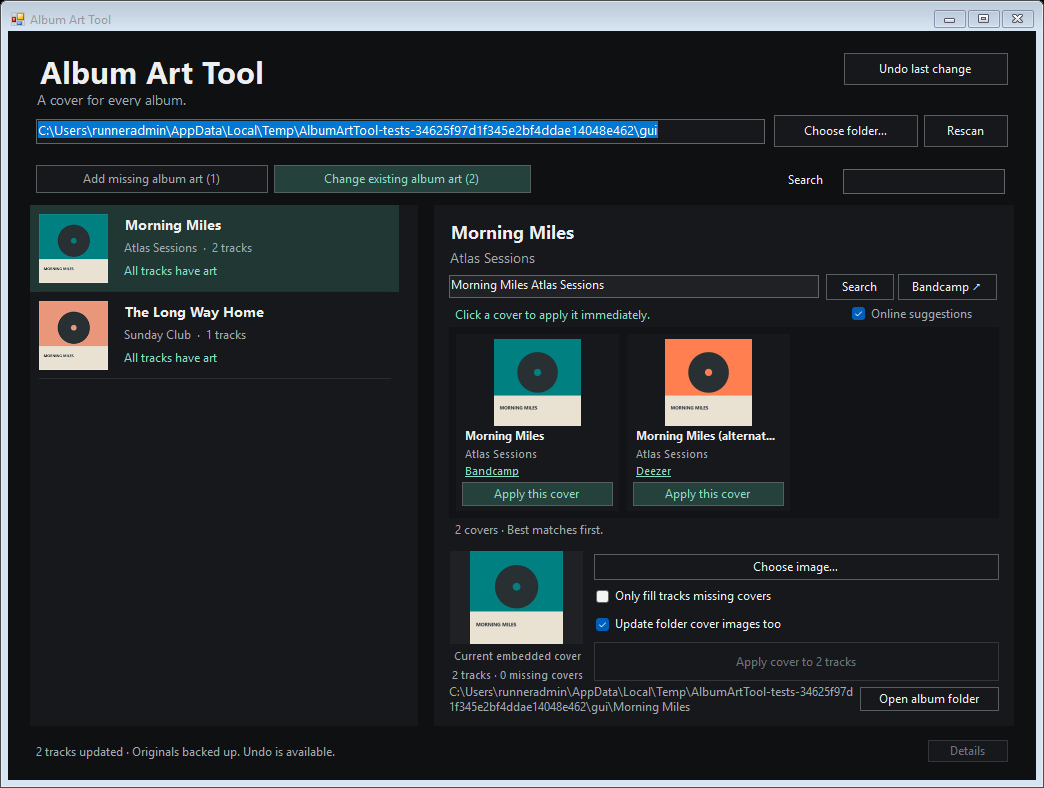
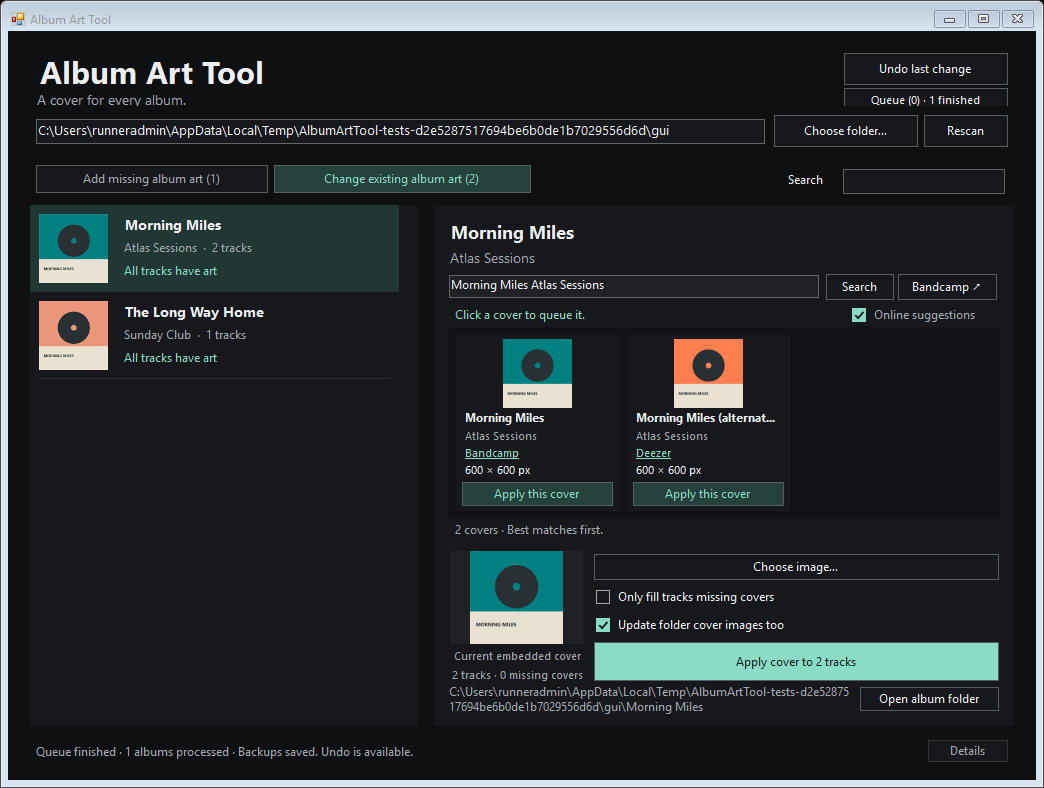
[release] Publish v1.2.0 with artwork queue, folder-cover shortcut and scan progress

diff --git a/README.md b/README.md
@@ -20,18 +20,20 @@ You can still drag a JPG, PNG, BMP or GIF from File Explorer onto an album row o
 
 If an album already has a folder cover, **Apply cover to X tracks** is enabled immediately. It uses the full-size image behind the preview, so you do not need to choose that file again. The same shortcut can copy the displayed embedded cover to tracks that are missing it.
 
-The **Queue** button shows active and waiting albums, recent results, and **Clear waiting jobs**. Albums in the list are marked **Queued** or **Applying cover…**. Jobs run one at a time; each keeps the album, image, and checkbox settings you chose when adding it. A failed job does not block later albums. You can browse both tabs, search, stage images and queue more work throughout. Folder switching, rescanning and Undo are available when the queue finishes. Closing the app waits for its work to finish; clear waiting jobs if you only want the current update to complete.
+The **Queue** button shows active and waiting albums, recent results, and **Clear waiting jobs**. Albums in the list are marked **Queued** or **Applying cover…**. Jobs run one at a time; each keeps the album, image, and checkbox settings you chose when adding it. A failed job does not block later albums. You can browse both tabs, search, stage images and queue more work throughout. Folder switching, rescanning and Undo are available when the queue finishes. To close with work pending, clear waiting jobs and let the current update finish.
 
 No installer, accounts, API keys or background service. Online suggestions use the internet; uncheck **Online suggestions** to work offline. Windows 10 (1903 or newer) and Windows 11 use the .NET Framework 4.8 runtime already included with Windows. The EXE embeds its only third-party library, TagLibSharp. The ZIP includes the same EXE and license notices.
 
 Scanning first counts supported music files using directory listings, without reading audio tags. It then shows a filling progress bar, a percentage, and an exact counter such as **2751/3867 tracks scanned**. Files that fail to open still count as checked and appear in Details. The initial counting phase can also be stopped. Disabled options keep readable text on the dark background.
+
+[Scan progress preview](docs/scanning.png) · [Background queue preview](docs/queue.png)
 
 ## Online cover search
 
 - Only the selected album is searched. The query starts as `album title + artist name`; you can edit it and press Enter or Search if tags are incomplete or an edition needs clarification.
 - Sources are searched independently, so one failing source cannot prevent the others from returning covers. Good title-and-artist matches rank first; **Bandcamp is preferred among similarly strong matches**, followed by high-resolution Deezer album artwork and front covers from MusicBrainz's Cover Art Archive.
 - Bandcamp results depend on its public search page. If Bandcamp requires browser verification or blocks the request, the app reports that source as unavailable and stops retrying it for the session. The **Bandcamp ↗** button opens the same search in your browser. No CAPTCHA bypass, login or hidden API credentials are used.
-- Cover Art Archive previews are 250 pixels; applying uses its 1200-pixel front cover. Deezer uses its `cover_xl` image. Bandcamp uses the original cover asset when its public search results are available. The existing 1600-pixel embedded-art limit still applies.
+- Cover Art Archive requests previews up to 250 pixels and front covers up to 1200 pixels; actual dimensions depend on the available image. Deezer uses its `cover_xl` image. Bandcamp uses the original cover asset when its public search results are available. The existing 1600-pixel embedded-art limit still applies.
 - Each suggested cover shows the source image's resolution, such as **1000 × 1000 px**. Thumbnails appear first while the app checks the full-size image header. These checks read at most 128 KB per cover, with two running at a time. If a source cannot provide readable dimensions, the card says **Size unavailable**; the cover can still be selected.
 - Source names beneath covers link to their album pages. Compare the title, artist and artwork before clicking, especially for similar titles or alternate releases.
 - Results are cached for up to 24 queries during the current session. Rapid selection changes cancel stale searches. MusicBrainz requests are spaced at least 1.1 seconds apart; server rate-limit responses are respected.
